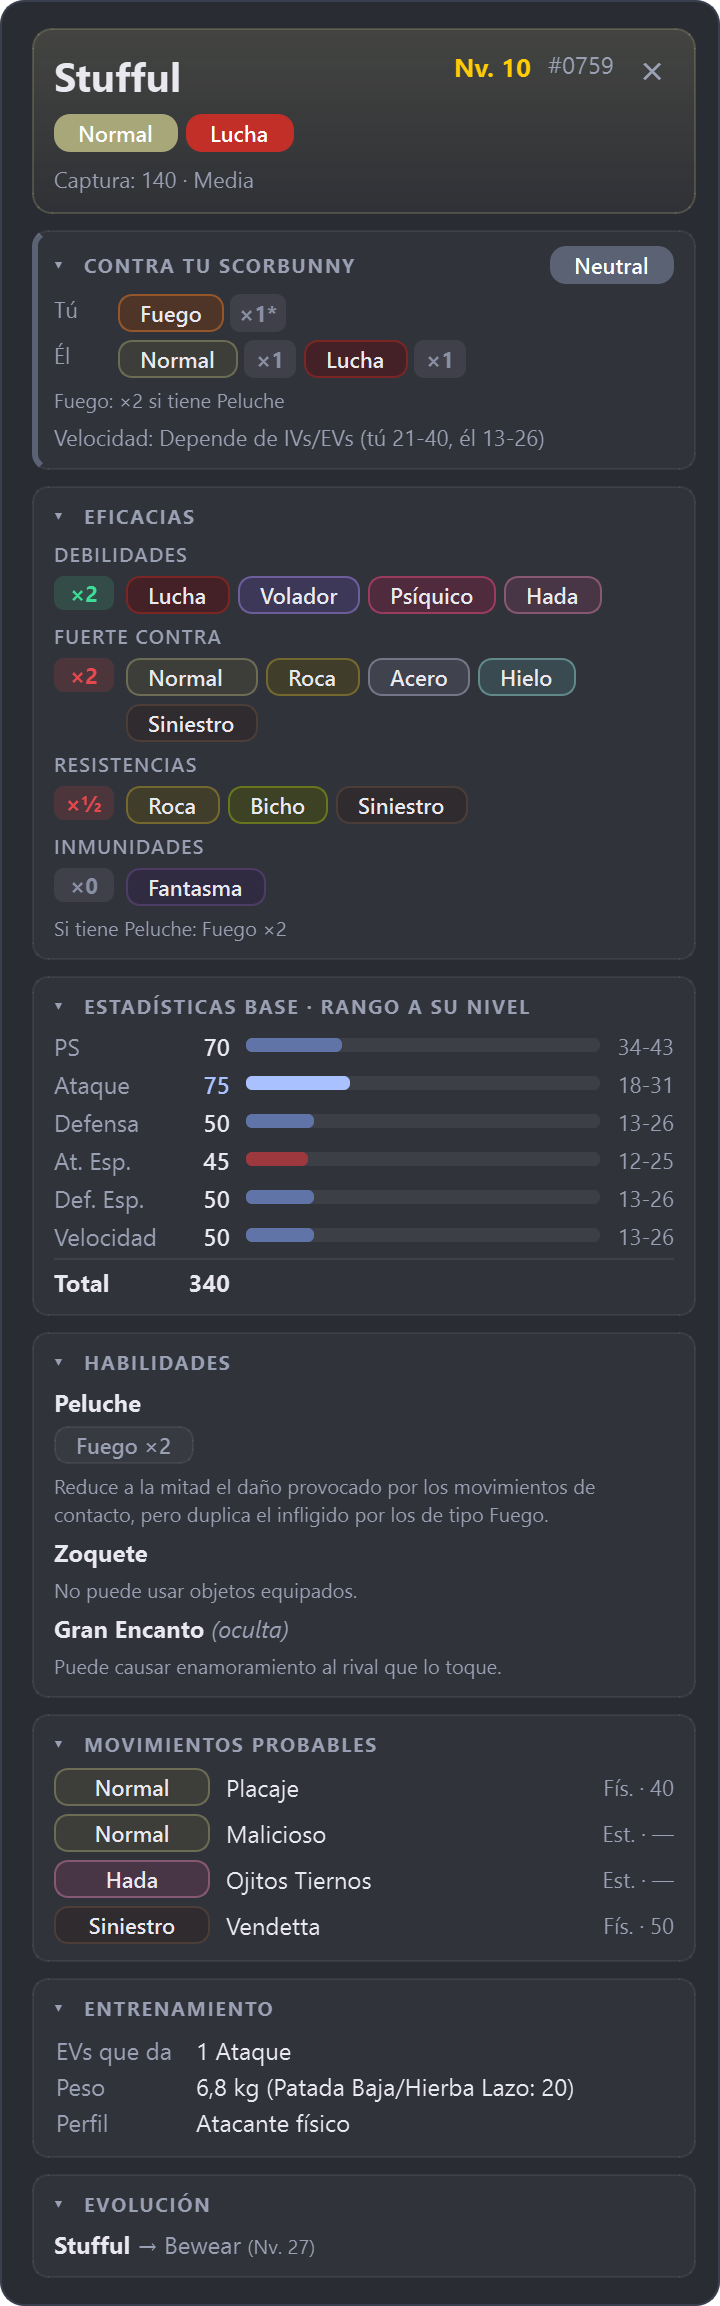
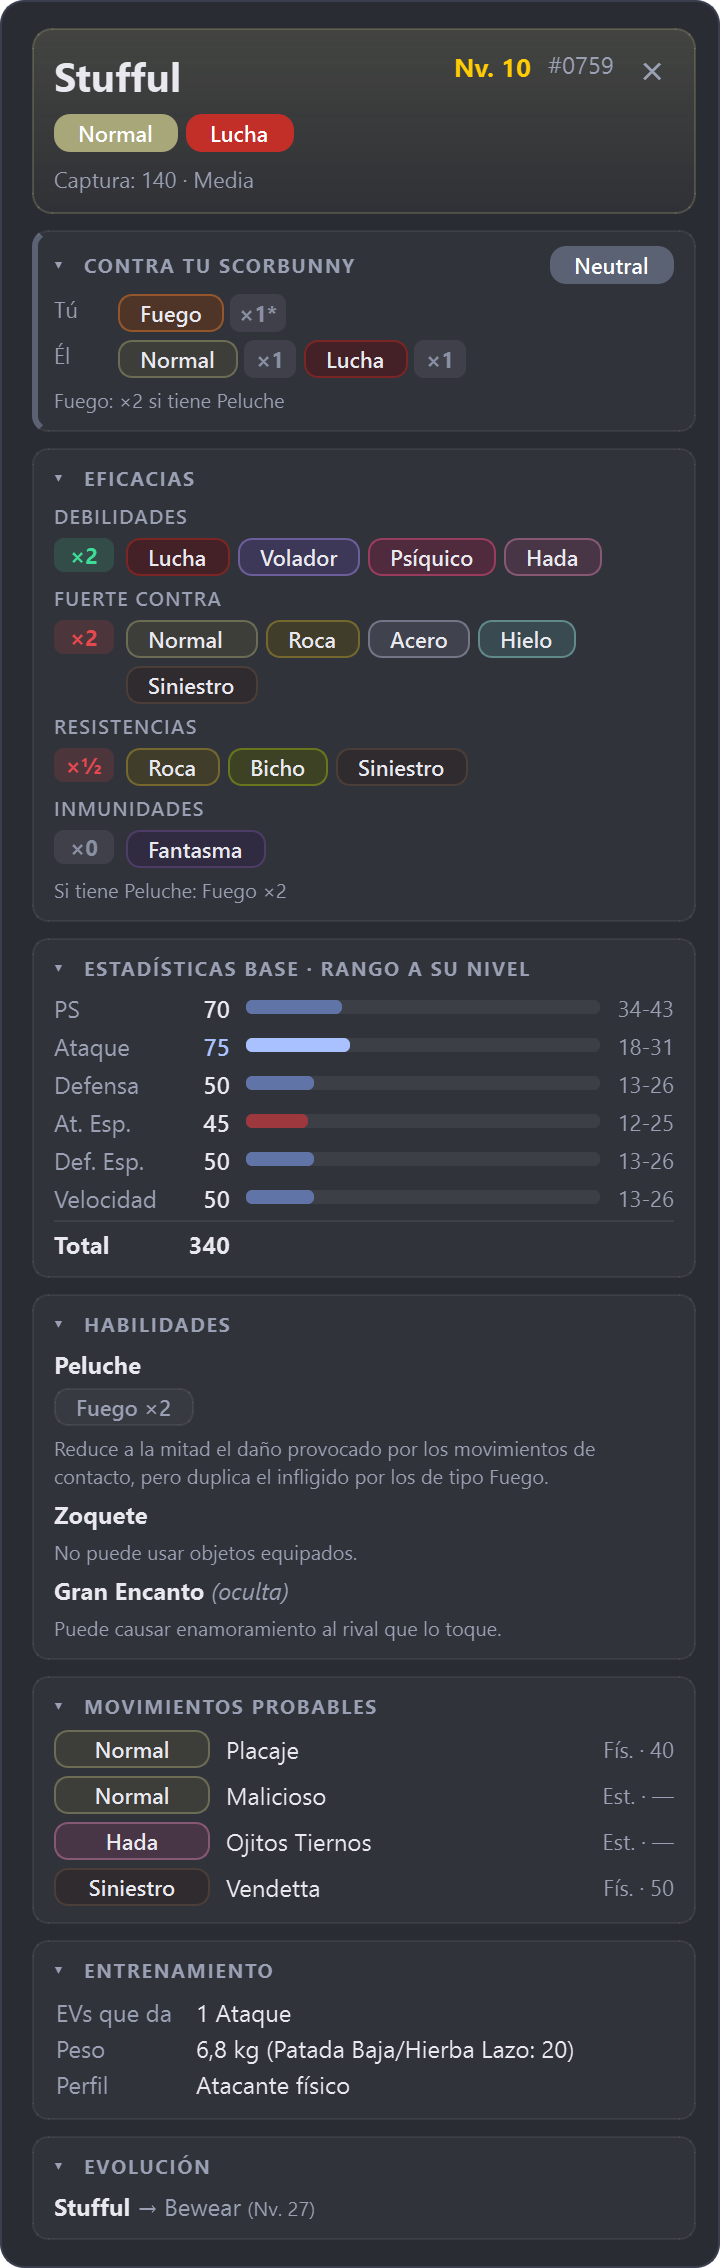
feat: quitar la comparación de velocidad de «Contra tu…»
Sin conocer los IVs ni los EVs del rival, el veredicto («Eres más
rápido», «Depende de IVs/EVs») podía ser falso. La Velocidad del rival
a su nivel sigue en las estadísticas. Cambio remove-speed-comparison.

diff --git a/site/guide.html b/site/guide.html
@@ -251,7 +251,7 @@
               <figcaption><span class="pill pill-normal">Normal</span> Para la aventura y la captura.</figcaption>
             </figure>
             <figure class="shot shot-card">
-              <img src="assets/guide/es/card-competitive.png" width="360" height="1199" loading="lazy" alt="Ficha Competitiva con nivel, estadísticas a su nivel, habilidades, movimientos probables y entrenamiento">
+              <img src="assets/guide/es/card-competitive.png" width="360" height="1180" loading="lazy" alt="Ficha Competitiva con nivel, estadísticas a su nivel, habilidades, movimientos probables y entrenamiento">
               <figcaption><span class="pill pill-pro">Competitivo</span> Para combates duros y retos.</figcaption>
             </figure>
           </div>
@@ -260,7 +260,6 @@
             <li><b>Nivel</b> del rival y sus <b>estadísticas reales a ese nivel</b> (mínimo–máximo), con la fórmula de cada generación.</li>
             <li><b>Habilidades</b> con su descripción y su efecto en las eficacias (por ejemplo, «Levitación → Tierra ×0»).</li>
             <li><b>Movimientos probables:</b> los 4 últimos que aprende hasta su nivel en ese juego.</li>
-            <li><b>Quién es más rápido</b>, tú o él, en la sección «Contra tu…».</li>
             <li><b>Entrenamiento:</b> EVs que da, peso (para Patada Baja) y perfil de estadísticas.</li>
           </ul>
           <p class="note">Las secciones que ves en cada modo se eligen en <a href="#a-medida">Tu ficha a medida</a>. Las capturas de arriba las muestran todas.</p>
@@ -660,7 +659,7 @@
               <figcaption><span class="pill pill-normal">Normal</span> For adventuring and catching.</figcaption>
             </figure>
             <figure class="shot shot-card">
-              <img src="assets/guide/en/card-competitive.png" width="360" height="1213" loading="lazy" alt="Competitive card with level, stats at that level, abilities, likely moves and training data">
+              <img src="assets/guide/en/card-competitive.png" width="360" height="1194" loading="lazy" alt="Competitive card with level, stats at that level, abilities, likely moves and training data">
               <figcaption><span class="pill pill-pro">Competitive</span> For hard battles and challenge runs.</figcaption>
             </figure>
           </div>
@@ -669,7 +668,6 @@
             <li>The opponent's <b>level</b> and its <b>actual stats at that level</b> (min–max), using each generation's formula.</li>
             <li><b>Abilities</b> with their description and their effect on matchups (for example, "Levitate → Ground ×0").</li>
             <li><b>Likely moves:</b> the last 4 it learns up to its level in that game.</li>
-            <li><b>Who's faster</b>, you or them, in the "Against your…" section.</li>
             <li><b>Training:</b> EV yield, weight (for Low Kick) and stat profile.</li>
           </ul>
           <p class="note">You choose the sections each mode shows in <a href="#customize">Make the card yours</a>. The screenshots above show all of them.</p>

diff --git a/site/index.html b/site/index.html
@@ -286,13 +286,12 @@
             <ul class="checks">
               <li data-en="Level and actual stats at that level (min–max)" data-es="Nivel y estadísticas reales a ese nivel (mín.–máx.)">Level and actual stats at that level (min–max)</li>
               <li data-en="Likely moves, flagged when they hit you hard" data-es="Movimientos probables, marcados si te hacen mucho daño">Likely moves, flagged when they hit you hard</li>
-              <li data-en="Who's faster, you or them" data-es="Quién es más rápido, tú o él">Who's faster, you or them</li>
               <li data-en="Abilities that change matchups (Levitate → Ground ×0)" data-es="Habilidades que cambian la eficacia (Levitación → Tierra ×0)">Abilities that change matchups (Levitate → Ground ×0)</li>
               <li data-en="EV yield, weight for Low Kick, stat profile" data-es="EVs que da, peso para Patada Baja, perfil de estadísticas">EV yield, weight for Low Kick, stat profile</li>
             </ul>
           </div>
           <div class="mode-shot clip" id="pro-shot">
-            <img src="assets/card-competitive.png" width="360" height="1153" loading="lazy"
+            <img src="assets/card-competitive.png" width="360" height="1134" loading="lazy"
                  alt="Competitive mode card with level, stat ranges, abilities, likely moves and training data"
                  data-en-alt="Competitive mode card with level, stat ranges, abilities, likely moves and training data"
                  data-es-alt="Ficha en modo Competitivo con nivel, rangos de estadísticas, habilidades, movimientos probables y entrenamiento">

diff --git a/src/battlelens/ui/overlay.py b/src/battlelens/ui/overlay.py
@@ -23,7 +23,6 @@ from PyQt6.QtWidgets import (
 from ..core.abilities import ability_effects, multiplier_text
 from ..core.card_text import ability_effect_lines, matchup_note
 from ..core.competitive import (
-    compare_speed,
     stat_profile,
     view_ranges,
     weight_move_power,
@@ -337,7 +336,7 @@ class Overlay(QWidget):
         own: SpeciesView | None,
         target_rect: tuple[int, int, int, int] | None,
         rival_levels: list[int | None] | None = None,
-        own_level: int | None = None,
+        own_level: int | None = None,  # sin uso desde que se quitó la comparación de velocidad
         own_moves: list[Move] | None = None,
         own_moves_probable: bool = False,
     ) -> None:
@@ -355,7 +354,7 @@ class Overlay(QWidget):
         for index, (rival, level) in enumerate(zip(rivals, levels)):
             versus = matchup(own, rival, self.pokedex.type_chart(rival.generation)) if own else None
             closable = index == len(rivals) - 1  # un solo ✕, en la tarjeta de la derecha
-            card = self._card(rival, versus, level=level, own=own, own_level=own_level, closable=closable)
+            card = self._card(rival, versus, level=level, own=own, closable=closable)
             card.setFixedWidth(inner)
             self._cards.append(card)
             row.addWidget(card, 0, Qt.AlignmentFlag.AlignTop)
@@ -407,7 +406,6 @@ class Overlay(QWidget):
         versus: Matchup | None = None,
         level: int | None = None,
         own: SpeciesView | None = None,
-        own_level: int | None = None,
         closable: bool = False,
     ) -> QWidget:
         card = QWidget()
@@ -418,7 +416,7 @@ class Overlay(QWidget):
 
         self._header(view, level, layout, closable)
         if versus is not None:  # lo más consultado en cada turno: justo debajo de la cabecera
-            self._matchup_section(versus, layout, view, ranges, own, own_level)
+            self._matchup_section(versus, layout)
             self._own_moves_section(view, layout)
         self._effectiveness(view, layout)
         if self.competitive:
@@ -525,10 +523,6 @@ class Overlay(QWidget):
         self,
         m: Matchup,
         layout: QVBoxLayout,
-        rival: SpeciesView,
-        rival_ranges: dict[str, tuple[int, int]] | None,
-        own: SpeciesView | None,
-        own_level: int | None,
     ) -> None:
         verdict = _pill(_(m.verdict.value), bg=VERDICT_COLORS[m.verdict])
         verdict.setObjectName("verdict")
@@ -555,13 +549,6 @@ class Overlay(QWidget):
         block.add(grid)
         for note in notes:
             block.add(self._muted(note, size=10, name="matchup-ability-note"))
-        if self.competitive and rival_ranges and own is not None and own_level:
-            own_speed = view_ranges(own, own_level, own=True)["speed"]
-            speed = compare_speed(own_speed, rival_ranges["speed"])
-            text = _("Velocidad: {verdict} (tú {own_min}-{own_max}, él {rival_min}-{rival_max})",
-                     verdict=_(speed.value), own_min=own_speed[0], own_max=own_speed[1],
-                     rival_min=rival_ranges["speed"][0], rival_max=rival_ranges["speed"][1])
-            block.add(self._muted(text, name="speed"))
 
     def _own_moves_section(self, rival: SpeciesView, layout: QVBoxLayout) -> None:
         """«Tus movimientos»: los leídos del menú (o los probables) con su multiplicador contra el rival."""

diff --git a/src/battlelens/core/competitive.py b/src/battlelens/core/competitive.py
@@ -4,7 +4,6 @@ habilidades que cambian la eficacia y datos de entrenamiento."""
 from __future__ import annotations
 
 import math
-from enum import Enum
 
 from ..i18n import N_
 from .abilities import ABILITY_NOTES, ABILITY_TYPE_EFFECTS, ability_effects  # noqa: F401 (reexportadas)
@@ -90,20 +89,6 @@ def stat_ranges(
 def view_ranges(view: SpeciesView, level: int, own: bool = False) -> dict[str, tuple[int, int]]:
     """Rangos de una vista con la fórmula de su juego (add-generation-stats D5)."""
     return stat_ranges(view.stats, level, view.pokemon, stat_formula(view.game_id, view.generation), own)
-
-
-class SpeedVerdict(Enum):
-    FASTER = N_("Eres más rápido")
-    SLOWER = N_("Es más rápido")
-    DEPENDS = N_("Depende de IVs/EVs")
-
-
-def compare_speed(own: tuple[int, int], rival: tuple[int, int]) -> SpeedVerdict:
-    if own[0] > rival[1]:
-        return SpeedVerdict.FASTER
-    if rival[0] > own[1]:
-        return SpeedVerdict.SLOWER
-    return SpeedVerdict.DEPENDS
 
 
 def weight_move_power(weight_kg: float | None) -> int | None:

diff --git a/tests/test_competitive.py b/tests/test_competitive.py
@@ -1,9 +1,7 @@
 import pytest
 
 from battlelens.core.competitive import (
-    SpeedVerdict,
     ability_effects,
-    compare_speed,
     stat_profile,
     stat_ranges,
     weight_move_power,
@@ -66,16 +64,6 @@ def test_shedinja_siempre_un_ps(dex):
     assert stat_ranges(dex.get_species(292).stats, 37, "shedinja")["hp"] == (1, 1)
 
 
-def test_jolteon_mas_rapido_que_snorlax(dex):
-    jolteon = stat_ranges(dex.get_species(135).stats, 50)["speed"]
-    snorlax = stat_ranges(dex.get_species(143).stats, 50)["speed"]
-    assert compare_speed(jolteon, snorlax) is SpeedVerdict.FASTER
-    assert compare_speed(snorlax, jolteon) is SpeedVerdict.SLOWER
-
-
-def test_pikachu_contra_pikachu_depende(dex):
-    pika = stat_ranges(dex.get_species(25).stats, 50)["speed"]
-    assert compare_speed(pika, pika) is SpeedVerdict.DEPENDS
 
 
 # ---- habilidades y entrenamiento -----------------------------------------------------

diff --git a/tests/test_ui.py b/tests/test_ui.py
@@ -376,12 +376,12 @@ def test_competitivo_sin_nivel_pide_recalibrar(qapp, overlay, dex):
     assert not _named(overlay, "range-hp")
 
 
-def test_competitivo_velocidad_y_movimientos_contra_ti(qapp, overlay, dex):
+def test_competitivo_movimientos_contra_ti_sin_velocidad(qapp, overlay, dex):
     # Rival Stufful Nv. 10 contra tu Gastly Nv. 10 (Fantasma/Veneno):
     # Vendetta (Siniestro) le hace ×2 y Placaje (Normal) ×0; los de estado no se marcan
     overlay.show_battle([dex.view(759, "sword-shield")], dex.view(92), None, [10], 10)
     qapp.processEvents()
-    assert _named(overlay, "speed") and "Velocidad:" in _named(overlay, "speed")[0]
+    assert not _named(overlay, "speed")  # sin IVs/EVs la comparación podía mentir
     assert sorted(_named(overlay, "move-vs-you")) == ["×0", "×2"]
 
 

diff --git a/src/battlelens/i18n/en_menus.py b/src/battlelens/i18n/en_menus.py
@@ -204,7 +204,7 @@ EN: dict[str, str] = {
     'Normal': 'Normal',
     'Competitivo': 'Competitive',
     'Contra tu Pokémon': 'Against your Pokémon',
-    'Ventaja, eficacias de un lado y otro y velocidad.': 'Advantage, effectiveness both ways and speed.',
+    'Ventaja y eficacias de un lado y otro.': 'Advantage, effectiveness both ways and speed.',
     'Cuánto hace cada uno de tus ataques al rival.': 'How effective each of your moves is against the opponent.',
     'Debilidades, resistencias e inmunidades del rival.': "The opponent's weaknesses, resistances and immunities.",
     'Estadísticas': 'Stats',

diff --git a/src/battlelens/ui/settings.py b/src/battlelens/ui/settings.py
@@ -63,7 +63,7 @@ SECTIONS = (
 )
 # Secciones de la ficha que se pueden ocultar (D8): nombre y qué muestra
 SECTION_LABELS = {
-    "matchup": (N_("Contra tu Pokémon"), N_("Ventaja, eficacias de un lado y otro y velocidad.")),
+    "matchup": (N_("Contra tu Pokémon"), N_("Ventaja y eficacias de un lado y otro.")),
     "own_moves": (N_("Tus movimientos"), N_("Cuánto hace cada uno de tus ataques al rival.")),
     "eff": (N_("Eficacias"), N_("Debilidades, resistencias e inmunidades del rival.")),
     "stats": (N_("Estadísticas"), N_("Base y rango a su nivel.")),

diff --git a/src/battlelens/i18n/en_card.py b/src/battlelens/i18n/en_card.py
@@ -17,11 +17,6 @@ EN: dict[str, str] = {
     "Desventaja": "Disadvantage",
     "Tú": "You",
     "Él": "Them",
-    "Velocidad: {verdict} (tú {own_min}-{own_max}, él {rival_min}-{rival_max})":
-        "Speed: {verdict} (you {own_min}-{own_max}, them {rival_min}-{rival_max})",
-    "Eres más rápido": "You are faster",
-    "Es más rápido": "It is faster",
-    "Depende de IVs/EVs": "Depends on IVs/EVs",
     # ---- tus movimientos ----
     "Tus movimientos": "Your moves",
     "Tus movimientos (probables)": "Your moves (likely)",

diff --git a/README.es.md b/README.es.md
@@ -48,7 +48,7 @@ BattleLens usa el reconocimiento de texto que trae Windows. Casi todos los equip
    - Las **megaevoluciones y otras formas** (Rotom, Deoxys, Giratina…) muestran el mismo nombre en pantalla, así que pulsa `Ctrl+Alt+F` para alternar entre las formas disponibles en ese juego. La ficha se recalcula y mantiene esa forma mientras el Pokémon siga en combate.
 4. **Elige el modo de la ficha** (bandeja → **Modo de la ficha**, `Ctrl+Alt+M` o Ajustes):
    - **Normal** (por defecto): ficha compacta para la aventura y la captura, con tipos, debilidades, contra qué es fuerte, **dificultad de captura** destacada, evolución y total de estadísticas.
-   - **Competitivo**: todo lo anterior más el **nivel**, resistencias, **estadísticas reales a su nivel** (mínimo-máximo), **habilidades** con su descripción y su efecto («Levitación → Tierra ×0»), **movimientos probables** (los 4 últimos que aprende hasta su nivel en ese juego, marcando los que te hacen ×2), **quién es más rápido** y datos de **entrenamiento** (EVs, peso para Patada Baja, perfil). Para leer el nivel, calibra la región del rival **incluyendo el nivel**.
+   - **Competitivo**: todo lo anterior más el **nivel**, resistencias, **estadísticas reales a su nivel** (mínimo-máximo), **habilidades** con su descripción y su efecto («Levitación → Tierra ×0»), **movimientos probables** (los 4 últimos que aprende hasta su nivel en ese juego, marcando los que te hacen ×2) y datos de **entrenamiento** (EVs, peso para Patada Baja, perfil). Para leer el nivel, calibra la región del rival **incluyendo el nivel**.
 5. **Opcional: tu Pokémon y combates dobles.** En **Ajustes › Perfiles** (bandeja → *Perfil activo → Gestionar perfiles…*) puedes calibrar también el nombre de **tu Pokémon** y el del **2.º rival**:
    - Con tu Pokémon, cada ficha muestra **«Contra tu X»**: lo que le hacen tus tipos, lo que te hacen los suyos y un veredicto (**Ventaja / Neutral / Desventaja**). Si tu Pokémon tiene apodo, no se puede reconocer.
    - Con el 2.º rival, en los combates dobles aparecen dos fichas una al lado de la otra.

diff --git a/README.md b/README.md
@@ -48,7 +48,7 @@ BattleLens uses the text recognition that ships with Windows. Almost every PC al
    - **Mega Evolutions and other forms** (Rotom, Deoxys, Giratina…) show the same name on screen, so press `Ctrl+Alt+F` to cycle through the forms available in that game; the card is recalculated and keeps that form while the Pokémon stays in battle.
 4. **Choose the card mode** (tray → **Card mode** / *Modo de la ficha*, `Ctrl+Alt+M` or *Ajustes*):
    - **Normal** (default): a compact card for adventuring and catching, with types, weaknesses, what it's strong against, highlighted **catch difficulty**, evolution and stat total.
-   - **Competitive**: everything above plus the **level**, resistances, **actual stats at its level** (min–max), **abilities** with their description and effect ("Levitate → Ground ×0"), **likely moves** (the last 4 it learns up to its level in that game, flagging the ones that hit you ×2), **who's faster** and **training** data (EVs, weight for Low Kick, stat profile). To read the level, calibrate the opponent's region **including the level**.
+   - **Competitive**: everything above plus the **level**, resistances, **actual stats at its level** (min–max), **abilities** with their description and effect ("Levitate → Ground ×0"), **likely moves** (the last 4 it learns up to its level in that game, flagging the ones that hit you ×2) and **training** data (EVs, weight for Low Kick, stat profile). To read the level, calibrate the opponent's region **including the level**.
 5. **Optional: your Pokémon and double battles.** In **Settings → Profiles** (*Ajustes › Perfiles*; tray → *Perfil activo → Gestionar perfiles…*) you can also calibrate the name of **your Pokémon** and of the **2nd opponent**:
    - With your Pokémon, each card shows **"Against your X"** (*Contra tu X*): what your types do to it, what its types do to you, and a verdict (**Advantage / Neutral / Disadvantage** — *Ventaja / Neutral / Desventaja*). Nicknamed Pokémon can't be recognised.
    - With the 2nd opponent, double battles show two cards side by side.

diff --git a/CHANGELOG.md b/CHANGELOG.md
@@ -11,6 +11,9 @@ Formato basado en [Keep a Changelog](https://keepachangelog.com/es-ES/1.1.0/); v
 ### Cambiado
 - Modificar un perfil en vez de crear otro: con un perfil activo, `Ctrl+Alt+C` pregunta qué región recalibrar (Rival, 2.º rival, Tu Pokémon o Menú de ataques) o si crear un perfil nuevo. En Ajustes › Perfiles → Perfil activo se puede cambiar el nombre y reaplicar un preset («Aplicar un preset…») conservando el perfil. La bandeja tiene «Modificar o crear perfil…», que hace lo mismo que el atajo.
 
+### Quitado
+- La comparación de velocidad («Eres más rápido», «Depende de IVs/EVs»…) de la sección «Contra tu…» de la ficha competitiva: sin conocer los IVs ni los EVs del rival podía equivocarse. Sus estadísticas reales a su nivel siguen en la ficha.
+
 ### English
 
 **Added**
@@ -19,6 +22,9 @@ Formato basado en [Keep a Changelog](https://keepachangelog.com/es-ES/1.1.0/); v
 
 **Changed**
 - Edit a profile instead of creating another: with an active profile, `Ctrl+Alt+C` asks which region to recalibrate (Opponent, 2nd opponent, Your Pokémon or Moves menu) or whether to create a new profile. In Settings → Profiles → Active profile you can rename it and re-apply a preset ("Apply a preset…") keeping the profile. The tray has "Edit or create profile…", which does the same as the shortcut.
+
+**Removed**
+- The speed comparison ("You are faster", "Depends on IVs/EVs"…) from the competitive card's "Against your…" section: without knowing the opponent's IVs and EVs it could be wrong. Its actual stats at its level are still on the card.
 
 ## [0.5.0] - 2026-11-12
 
